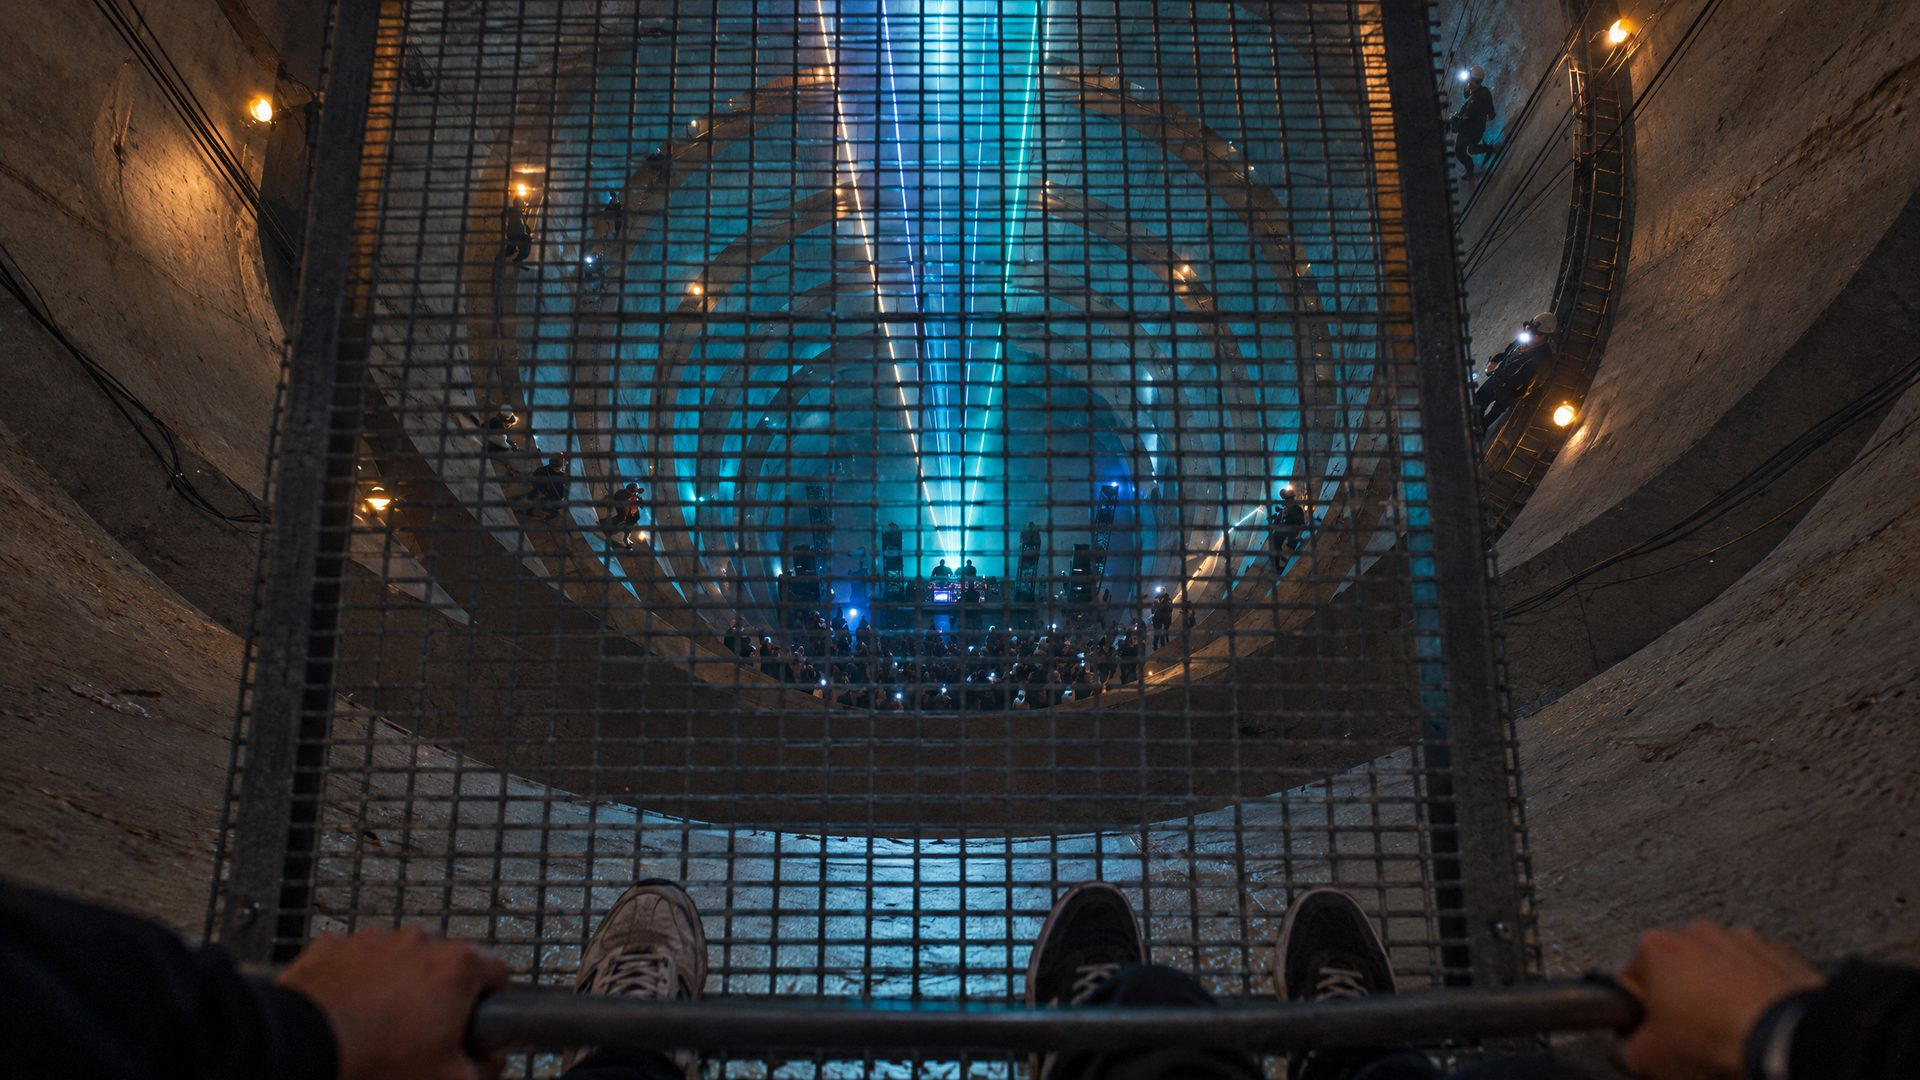
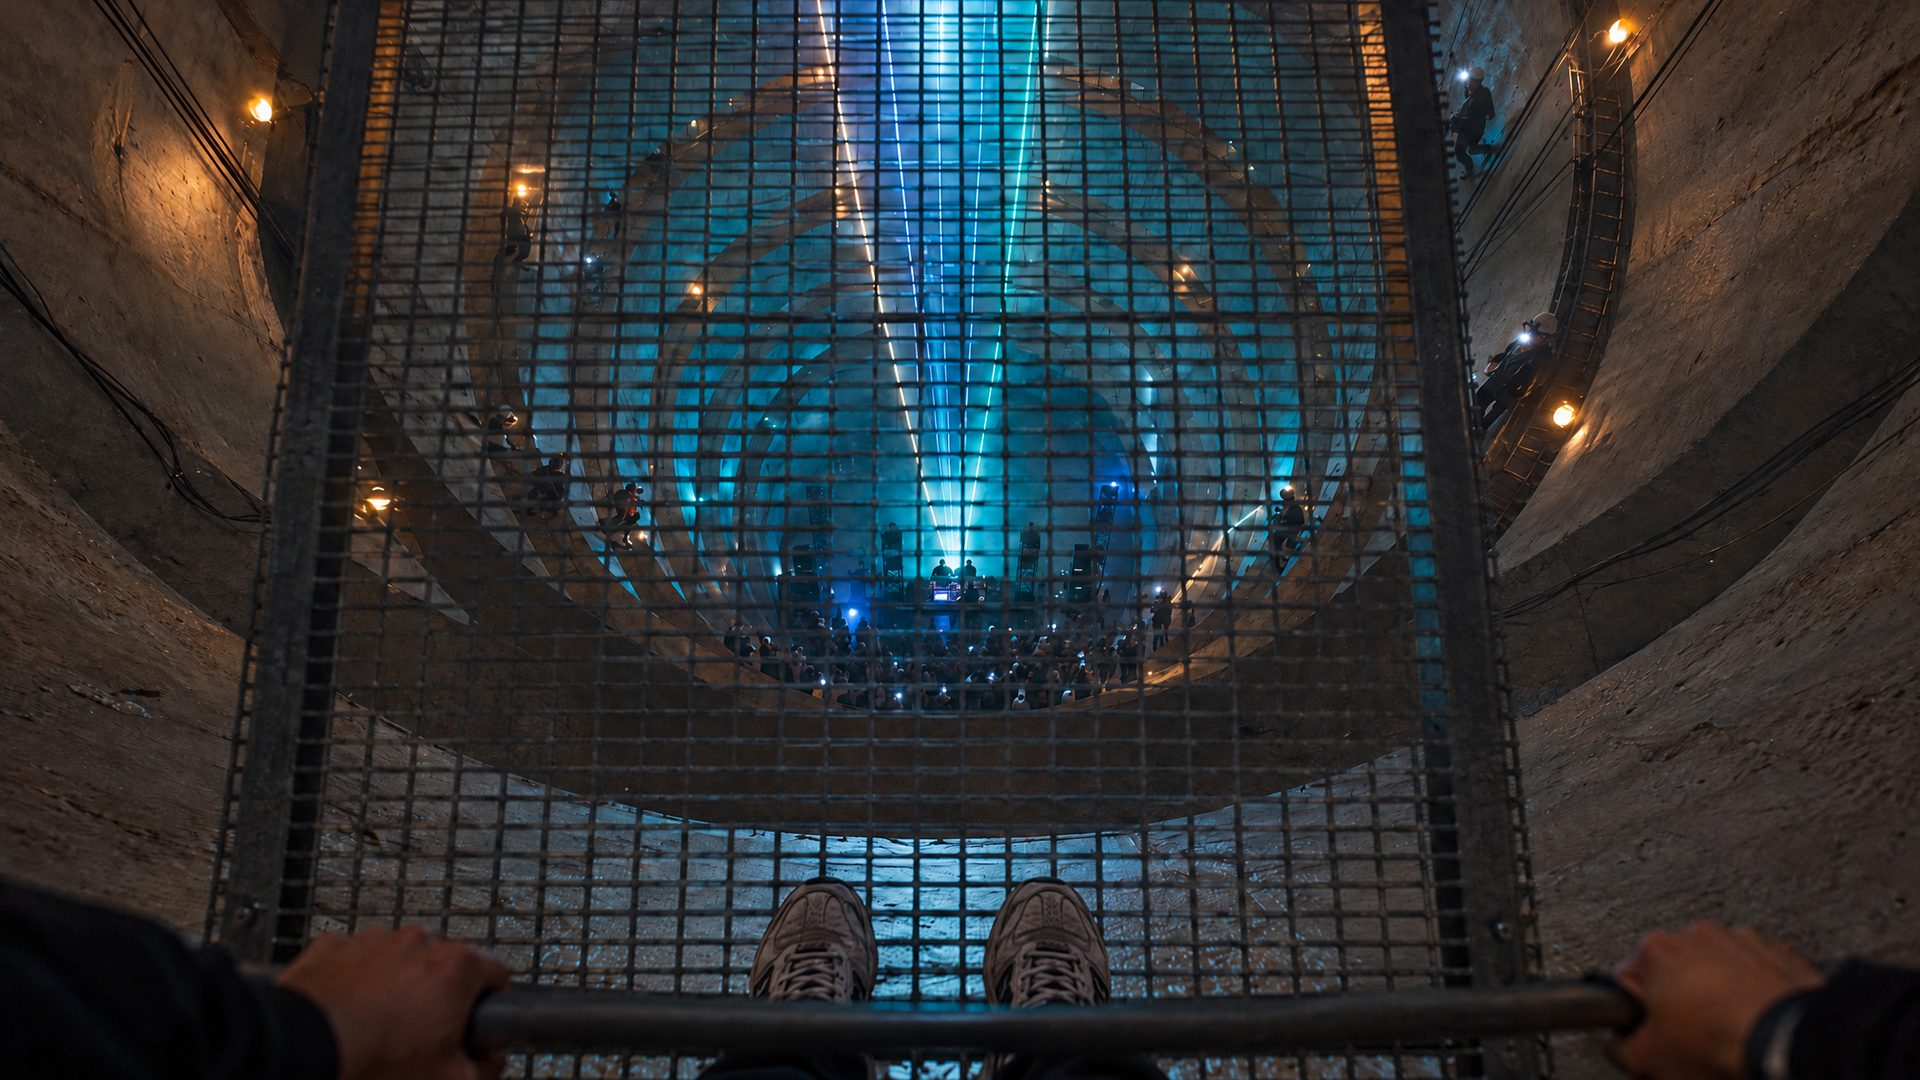
Photographic navigation; fix silo plate
Moving between stations now goes photo to photo (camera-push dissolve,
or a filmed transition clip when one is in transitions/), dragging pans
the photo, and the 3D scene is no longer drawn behind the photos. The
silo plate now shows one pair of sneakers instead of three shoes.

Claude-Session: https://claude.ai/code/session_01SHkDsMzJr9bPJRPruvVHom

diff --git a/index.html b/index.html
@@ -44,7 +44,7 @@
 html,body{height:100%;background:var(--bg);color:var(--fg);overflow:hidden}
 body{font-family:var(--display);-webkit-font-smoothing:antialiased}
 #stage{position:fixed;inset:0;background:var(--bg)}
-#c{display:block;width:100%;height:100%;touch-action:none;cursor:grab;outline:none}
+#c{display:block;width:100%;height:100%;touch-action:none;cursor:grab;outline:none;transition:opacity .4s}
 #c.dragging{cursor:grabbing}
 .top{position:fixed;top:0;left:0;right:0;z-index:6;display:flex;align-items:center;justify-content:space-between;gap:12px;
   padding-top:calc(16px + env(safe-area-inset-top,0px));padding-left:max(16px,env(safe-area-inset-left,0px));padding-right:max(16px,env(safe-area-inset-right,0px));pointer-events:none}
@@ -87,6 +87,7 @@ h1{margin:0;font-size:clamp(28px,5.4vw,40px);line-height:.98;font-weight:700;fon
 /* photoreal station plates: shown on arrival, dissolve back to the live 3D view on drag or departure */
 #photos{position:fixed;inset:0;z-index:2;pointer-events:none;overflow:hidden;background:transparent}
 #photos img{position:absolute;inset:-4%;width:108%;height:108%;object-fit:cover;opacity:0;will-change:opacity,transform}
+#photos video{position:absolute;inset:0;width:100%;height:100%;object-fit:cover;opacity:0;background:#000}
 @media (prefers-reduced-motion:reduce){#photos img{inset:0;width:100%;height:100%}}
 .tag{position:absolute;left:0;top:0;pointer-events:auto;display:flex;align-items:center;gap:6px;transform:translate(-50%,-100%);white-space:nowrap;
   font-family:var(--mono);font-size:11px;letter-spacing:.06em;color:var(--cyan);background:rgba(0,0,0,.72);border:1px solid rgba(1,207,254,.55);border-radius:999px;padding:6px 10px;cursor:default;transition:opacity .25s}
@@ -788,7 +789,8 @@ function go(i){
   const far = (stop === 0 || i === 0) && Math.abs(i - stop) >= 1;
   const dur = reduce ? 350 : (far ? 5200 : Math.min(7000, 1300 + 520*Math.abs(to - from)));
   modeOrbit = !!STOPS[stop].orbit;
-  anim = {from, to, t0:performance.now(), dur, y0:yaw, p0:pitch};
+  const pd = photoTransition(stop, i);
+  anim = {from, to, t0:performance.now(), dur: pd || dur, y0:yaw, p0:pitch};
   stop = i; renderCard();
 }
 $('next').addEventListener('click', () => go(stop === STOPS.length-1 ? 0 : stop+1));
@@ -809,21 +811,50 @@ canvas.addEventListener('pointermove', e => { if (!drag || anim) return; const d
 const endDrag = () => { drag = null; canvas.classList.remove('dragging'); };
 canvas.addEventListener('pointerup', endDrag); canvas.addEventListener('pointercancel', endDrag);
 
-/* ---------- photoreal station plates (concepts/README.md has how they were made) ---------- */
+/* ---------- photoreal navigation (concepts/README.md has how the plates were made) ----------
+   Every station is a photograph with real people in it. Moving between stations plays a filmed transition clip when there is one
+   (transitions/<from>-<to>.mp4, first frame = this station, last frame = the next), and otherwise a camera-push dissolve from photo
+   to photo. Dragging pans the photo. The 3D scene still drives the path, depth readout and label positions, but is only drawn while
+   photos are loading, or always with ?3d. */
+const PHOTO_MODE = !/[?&]3d\b/.test(location.search);
 const PHOTOS = {0:'01-roswell', 1:'02-approach', 2:'03-festival-grounds', 3:'04-the-site', 4:'05-entry', 5:'06-stair-shaft', 6:'07-launch-control-1962', 7:'08-deep-space', 8:'09-tunnel', 9:'10-the-silo', 10:'11-through-the-doors'};
-const plates = {};
-if (!/[?&]3d\b/.test(location.search)) Object.keys(PHOTOS).forEach(k => { /* ?3d shows the live 3D only */ const img = new Image(); img.alt = ''; img.decoding = 'async'; const pl = {img, ready:false, a:0, t0:0};
-  img.onload = () => { pl.ready = true; }; img.src = 'stations/' + PHOTOS[k] + '.jpg'; $('photos').appendChild(img); plates[k] = pl; });
-let plateLast = 0;
-function updatePlates(now){ const dt = plateLast ? Math.min(0.1, (now - plateLast)/1000) : 0; plateLast = now;
-  const look = Math.min(1, Math.max(Math.abs(yaw)/0.3, Math.abs(pitch)/0.25));
-  for (const k in plates){ const pl = plates[k], here = +k === stop && !anim && pl.ready;
-    const target = here ? 1 - smooth(0.35, 1, look) : 0;
-    if (here && pl.a === 0) pl.t0 = now;
-    const rate = target > pl.a ? 1.1 : 2.6; pl.a += Math.sign(target - pl.a) * Math.min(Math.abs(target - pl.a), dt*rate);
-    if (pl.a < 0.002 && target === 0) pl.a = 0;
-    pl.img.style.opacity = pl.a.toFixed(3);
-    if (pl.a > 0 && !reduce){ const z = 1 + Math.min(1, (now - pl.t0)/24000)*0.035; pl.img.style.transform = 'translate(' + (-yaw*3).toFixed(2) + '%,' + (pitch*3).toFixed(2) + '%) scale(' + z.toFixed(4) + ')'; } } }
+const CLIPS = [];  /* station indexes i that have transitions/<i+1>-<i+2>.mp4 */
+const plates = {}, clips = {}, pad2 = n => String(n).padStart(2, '0');
+if (PHOTO_MODE){
+  Object.keys(PHOTOS).forEach(k => { const img = new Image(); img.alt = ''; img.decoding = 'async'; const pl = {img, ready:false, t0:0};
+    img.onload = () => { pl.ready = true; }; img.src = 'stations/' + PHOTOS[k] + '.jpg'; $('photos').appendChild(img); plates[k] = pl; });
+  CLIPS.forEach(i => { const v = document.createElement('video'); v.muted = true; v.playsInline = true; v.setAttribute('playsinline', ''); v.preload = 'none';
+    v.dataset.src = 'transitions/' + pad2(i+1) + '-' + pad2(i+2) + '.mp4'; const c = {v, ready:false};
+    v.addEventListener('loadeddata', () => { c.ready = true; }); $('photos').appendChild(v); clips[i] = c; });
+}
+/* fetch the clip that leaves the current station, so Next can play it without waiting */
+function warmClip(i){ const c = clips[i]; if (c && !c.v.src){ c.v.src = c.v.dataset.src; c.v.preload = 'auto'; c.v.load(); } }
+let tr = null, arrivedAt = 0, photoCover = false;
+/* called by go(): returns the transition length in ms in photo mode */
+function photoTransition(from, to){ if (!PHOTO_MODE) return 0;
+  const c = to === from + 1 ? clips[from] : null, useClip = !!(c && c.ready && !reduce);
+  tr = {from, to, t0:performance.now(), clip: useClip ? c : null};
+  if (useClip){ c.v.currentTime = 0; c.v.play().catch(() => { tr.clip = null; }); tr.dur = Math.max(1500, (c.v.duration || 4)*1000); }
+  else tr.dur = reduce ? 350 : 1900;
+  return tr.dur; }
+function updatePlates(now){
+  if (!PHOTO_MODE){ photoCover = false; return; }
+  const pan = (x, y) => 'translate(' + (-Math.max(-1, Math.min(1, x))*3.5).toFixed(2) + '%,' + (Math.max(-1, Math.min(1, y))*3.5).toFixed(2) + '%)';
+  const p = tr ? Math.min(1, (now - tr.t0)/tr.dur) : 1;
+  if (tr && p >= 1){ if (tr.clip){ tr.clip.v.pause(); } tr = null; arrivedAt = now; warmClip(stop); }
+  let cover = false;
+  for (const k in plates){ const pl = plates[k], i = +k; let a = 0, sc = 1, tf = '';
+    if (tr && !tr.clip){
+      if (i === tr.from){ a = 1 - smooth(0.05, 0.62, p); sc = 1 + 0.14*smooth(0, 1, p); }
+      else if (i === tr.to){ a = smooth(0.38, 1, p); sc = 1.12 - 0.12*smooth(0.38, 1, p); }
+    } else if (!tr && i === stop){ a = 1; sc = reduce ? 1 : 1 + Math.min(1, (now - arrivedAt)/24000)*0.035; tf = pan(yaw/1.1, pitch/0.7); }
+    if (a > 0 && !pl.ready) a = 0;
+    if (a >= 0.999) cover = true;
+    pl.img.style.opacity = a.toFixed(3); if (a > 0) pl.img.style.transform = tf + ' scale(' + sc.toFixed(4) + ')'; }
+  for (const k in clips){ const on = !!(tr && tr.clip === clips[k]); clips[k].v.style.opacity = on ? '1' : '0'; if (on) cover = true; }
+  /* mid-dissolve both photos are partly transparent: keep the 3D hidden behind them so only photographs show */
+  if (tr && !tr.clip && plates[tr.from] && plates[tr.to] && plates[tr.from].ready && plates[tr.to].ready) cover = true;
+  photoCover = cover; canvas.style.opacity = cover ? '0' : '1'; }
 
 /* ---------- loop ---------- */
 const ease = t => t<0.5 ? 4*t*t*t : 1 - Math.pow(-2*t+2,3)/2;
@@ -895,8 +926,8 @@ function frame(now){
   /* eye adaptation: settle to a lower exposure in the lit rooms below grade */
   { const dt = lastF ? Math.min(0.1, (now - lastF)/1000) : 1; lastF = now; const target = camera.position.y < -1.5 ? EXPOSURE_BELOW : EXPOSURE; exposure += (target - exposure)*Math.min(1, dt*2.5);
     if (composer) finalPass.uniforms.exposure.value = exposure; else renderer.toneMappingExposure = exposure; }
-  if (composer){ finalPass.uniforms.time.value = s; composer.render(); } else renderer.render(scene, camera);
-  updatePlates(now); adaptQuality(now);
+  updatePlates(now);
+  if (!photoCover){ if (composer){ finalPass.uniforms.time.value = s; composer.render(); } else renderer.render(scene, camera); adaptQuality(now); }
   requestAnimationFrame(frame);
 }
 /* soundtrack: browsers only allow sound after a tap, so it starts on the first interaction and loops for the whole journey */

diff --git a/README.md b/README.md
@@ -10,7 +10,7 @@ Live at https://demo.atomikafest.com
 - `?station=N` opens straight at station N (1 to 11).
 - `people/` holds real-person cutouts (crew and visitors) that stand in the live 3D in place of modeled figures.
 - `.claude/skills/creative-technologist/` is the Claude Code skill used to make all of this: how to turn a 3D build into human-realistic plates and cutouts with OpenArt or ElevenLabs.
-- `stations/` holds photoreal plates, with real people, for all 11 stations. The camera flies through the 3D scene, and on arrival the view dissolves into the plate; dragging to look around fades back to the live 3D. `?3d` turns the plates off. The plates are AI re-renders of the 3D frames; sources, every variation and the prompts are in `concepts/` (see `concepts/README.md`).
+- `stations/` holds photoreal plates, with real people, for all 11 stations. Navigation is photographic end to end: moving between stations plays a filmed transition clip from `transitions/` when one exists, otherwise a camera-push dissolve from photo to photo; dragging pans the photo. The 3D scene still drives the path, depth readout and label positions but isn't drawn behind the photos. `?3d` shows the 3D scene instead. The plates are AI re-renders of the 3D frames; sources, every variation and the prompts are in `concepts/` (see `concepts/README.md`).
 - `og.png` is the social share image.
 - Hosted on GitHub Pages; `CNAME` sets the custom domain.
 
